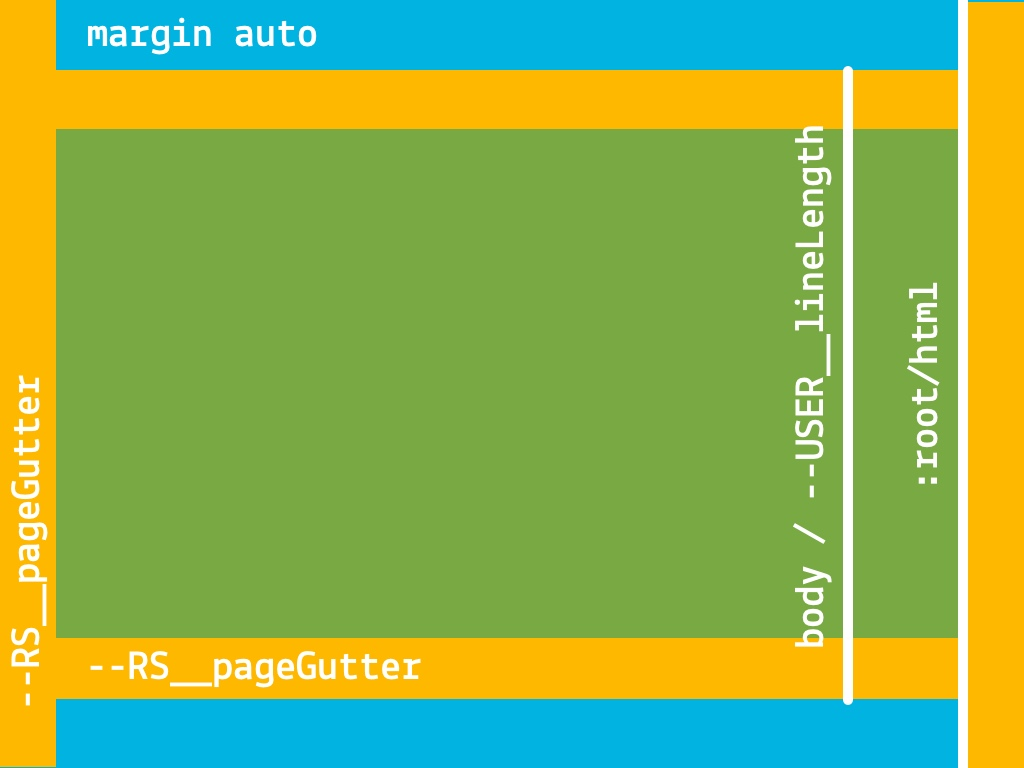
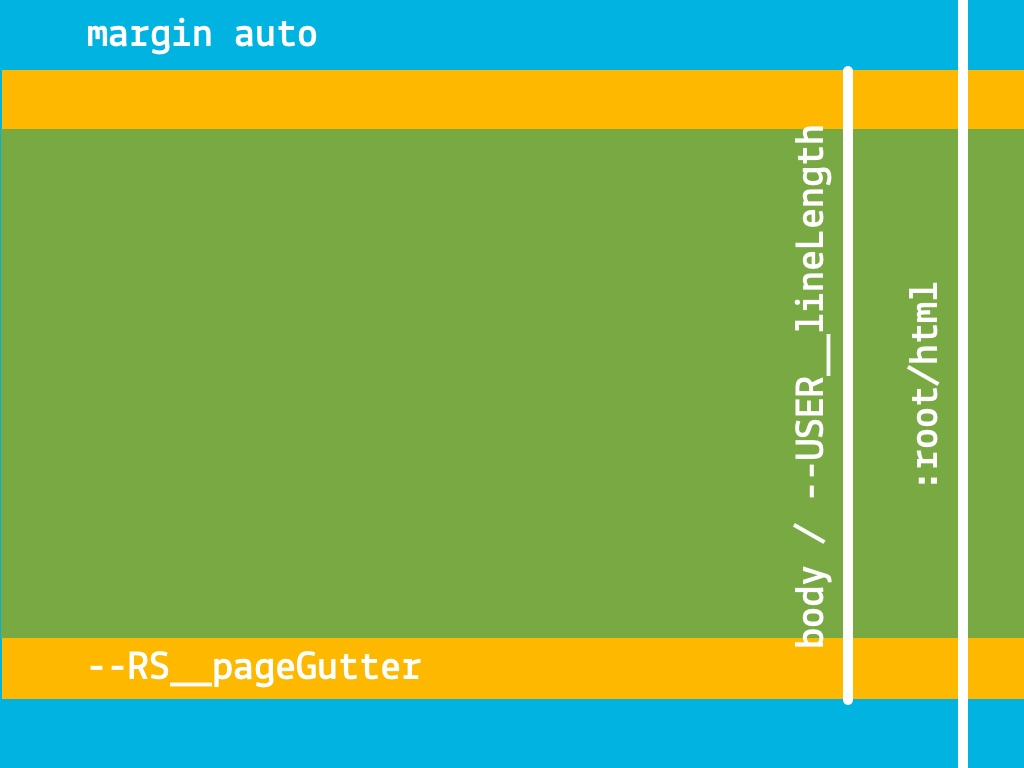
Align vertical pagination with the default one
Remove --RS__pageGutter on :root for more consistency

diff --git a/css/src/modules/ReadiumCSS-pagination-vertical.css b/css/src/modules/ReadiumCSS-pagination-vertical.css
@@ -54,7 +54,7 @@
   height: 100vh;
   max-height: 100vh;
   margin: 0 !important;
-  padding: 0 var(--RS__pageGutter) !important;
+  padding: 0 !important;
 
   /* Init pagination */
   /* TODO: document columns’ logic cos it might feel weird at first */

diff --git a/docs/CSS03-injection_and_pagination.md b/docs/CSS03-injection_and_pagination.md
@@ -211,9 +211,7 @@ We consequently use a “Fragmented Model”, as it differs significantly from t
 
 ![The fragmented Model is kind of a superset of the single page model in the vertical direction, with extra padding added to the root element for extra horizontal gutters.](assets/Fragmented-Model.jpg)
 
-One can think of the fragmented model as the single page model rotated 90% clockwise. The only difference is that `padding` is added to the `:root` (`html`) element so that text doesn’t run from edge to edge.
-
-Other options have been explored, e.g. a pseudo-algorithm mimicking `margin: auto`, using the `calc()` function, but it proved complex to manage well and raised serious performance issues, especially when resizing the window of a browser with documents making heavy use of `text-direction` and `text-combine-upright`.
+One can think of the fragmented model as the single page model rotated 90% clockwise.
 
 #### When to use the fragmented model
 
